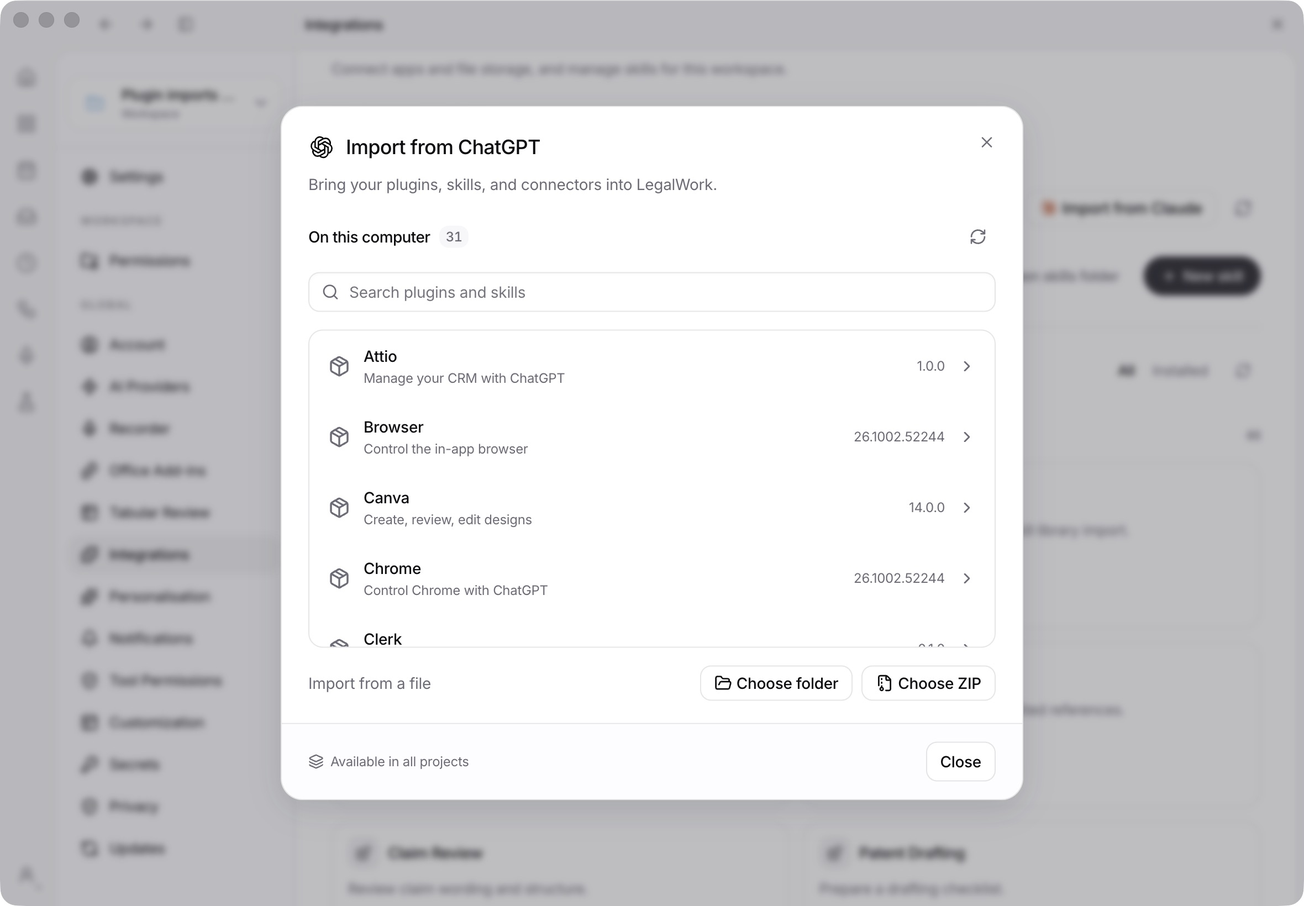
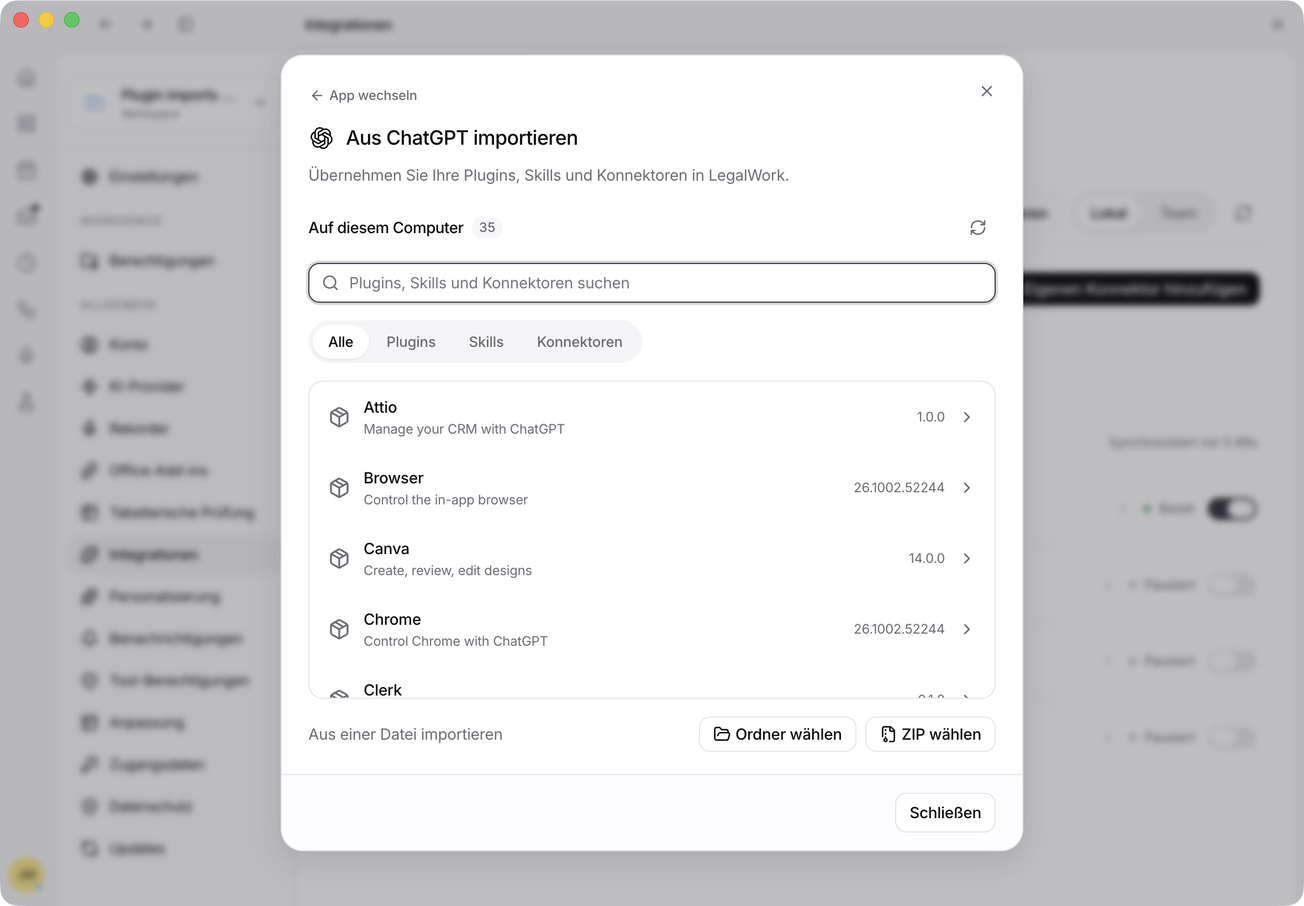
Simplify connector management and remove import scope footer

diff --git a/apps/app/src/react-app/domains/settings/pages/mcp-view.tsx b/apps/app/src/react-app/domains/settings/pages/mcp-view.tsx
@@ -5,6 +5,7 @@ import {
   BookOpen,
   CheckCircle2,
   ChevronDown,
+  ChevronRight,
   CircleAlert,
   Cloud,
   Code2,
@@ -47,7 +48,7 @@ import { pluginImportConnectorName } from "./plugin-import-presentation";
 import { Button } from "@/components/ui/button";
 import { Input } from "@/components/ui/input";
 import { Switch } from "@/components/ui/switch";
-import { Dialog, DialogContent, DialogDescription, DialogHeader, DialogTitle } from "@/components/ui/dialog";
+import { Dialog, DialogContent, DialogDescription, DialogFooter, DialogHeader, DialogTitle } from "@/components/ui/dialog";
 import { ConfirmModal } from "../../../design-system/modals/confirm-modal";
 import { AddMcpModal } from "../../connections/modals/add-mcp-modal";
 import type { LegalworkMcpProbeResult, LegalworkMcpRegisterClientResult } from "../../../../app/lib/legalwork-server";
@@ -1299,138 +1300,86 @@ function McpConfiguredServerRow(props: {
   canShareWithFirm?: boolean;
   onShareWithFirm?: (mcpName: string) => void | Promise<void>;
 }) {
-  const Icon = serviceIcon(props.entry.name);
   return (
-    <div className={`group relative rounded-xl transition-colors ${props.selected ? "bg-dls-hover/40" : "hover:bg-dls-hover/60"}`}>
+    <div className="group relative rounded-xl transition-colors hover:bg-dls-hover/60">
       <div className="flex items-center gap-3 px-1 py-3">
         <button
           type="button"
-          aria-expanded={props.selected}
+          aria-haspopup="dialog"
           className="flex min-w-0 flex-1 items-center gap-3 rounded-lg text-start focus-visible:outline-none focus-visible:ring-2 focus-visible:ring-ring/30"
-          onClick={() => props.onSelect(props.selected ? null : props.entry.name)}
+          onClick={() => props.onSelect(props.entry.name)}
         >
-          {props.directoryEntry ? <LedgerBrandIcon name={props.directoryEntry.name} iconSlug={props.directoryEntry.iconSlug} iconSrc={props.directoryEntry.iconSrc} kind={props.directoryEntry.kind ?? "mcp"} /> :
-          <div className={`flex size-9 shrink-0 items-center justify-center rounded-lg border ${props.status === "connected" ? "border-green-6 bg-green-3" : serviceIconBg(props.entry.name)}`}>
-            <Icon size={16} className={props.status === "connected" ? "text-green-11" : serviceColor(props.entry.name)} />
-          </div>}
+          <McpConfiguredServerIcon {...props} />
           <div className="min-w-0 flex-1">
             <div className="truncate text-[15px] font-medium tracking-[-0.01em] text-dls-text">{props.displayName(props.entry.name)}</div>
             <div className="mt-0.5 truncate text-[13px] text-dls-secondary">{props.directoryEntry?.description ?? t("integrations.custom_connector")}</div>
           </div>
-          <ChevronDown size={14} className={`shrink-0 text-dls-secondary/40 transition-transform ${props.selected ? "rotate-180" : ""}`} />
+          <ChevronRight size={14} className="shrink-0 text-muted-foreground/50" />
         </button>
-        {props.canShareWithFirm && props.onShareWithFirm ? (
-          <Button
-            variant="ghost"
-            size="icon-sm"
-            disabled={props.busy}
-            onClick={(event) => {
-              event.stopPropagation();
-              void props.onShareWithFirm?.(props.entry.name);
-            }}
-            title={t("firm_hub.share_with_firm")}
-            aria-label={`${t("firm_hub.share_with_firm")}: ${props.displayName(props.entry.name)}`}
-          >
-            <Share2 size={13} />
-          </Button>
-        ) : null}
         <div className="flex shrink-0 items-center gap-2">
           <div className={`size-1.5 rounded-full ${statusDot(props.status)}`} />
           <span className="text-xs text-muted-foreground">{friendlyStatus(props.status)}</span>
         </div>
-        {props.onToggleEnabled && props.entry.source !== "config.global" ? <Switch
-          checked={props.entry.config.enabled !== false}
-          disabled={props.busy || props.togglingMcp !== null}
-          aria-label={`${t(props.entry.config.enabled === false ? "mcp.enable_app" : "mcp.disable_app")} ${props.displayName(props.entry.name)}`}
-          onCheckedChange={enabled => {
-            if (props.togglingMcp) return;
-            props.onToggleBusy(props.entry.name);
-            void Promise.resolve(props.onToggleEnabled?.(props.entry.name, enabled)).finally(() => props.onToggleBusy(null));
-          }}
-        /> : null}
+        <McpConnectorToggle {...props} />
       </div>
 
-      {props.selected ? <McpConfiguredServerDetails {...props} /> : null}
+      <McpConfiguredServerDetails {...props} />
     </div>
   );
+}
+
+function McpConfiguredServerIcon(props: Parameters<typeof McpConfiguredServerRow>[0]) {
+  const directory = props.directoryEntry;
+  const Icon = serviceIcon(props.entry.name);
+  return directory ? <LedgerBrandIcon name={directory.name} iconSlug={directory.iconSlug} iconSrc={directory.iconSrc} kind={directory.kind ?? "mcp"} /> :
+    <div className="grid size-9 shrink-0 place-items-center rounded-lg border border-border bg-muted/30"><Icon className="size-4 text-muted-foreground" /></div>;
+}
+
+function McpConnectorToggle(props: Parameters<typeof McpConfiguredServerRow>[0]) {
+  if (!props.onToggleEnabled || props.entry.source === "config.global") return null;
+  return <Switch
+    checked={props.entry.config.enabled !== false}
+    disabled={props.busy || props.togglingMcp !== null}
+    aria-label={`${t(props.entry.config.enabled === false ? "mcp.enable_app" : "mcp.disable_app")} ${props.displayName(props.entry.name)}`}
+    onCheckedChange={enabled => {
+      if (props.togglingMcp) return;
+      props.onToggleBusy(props.entry.name);
+      void Promise.resolve(props.onToggleEnabled?.(props.entry.name, enabled)).finally(() => props.onToggleBusy(null));
+    }}
+  />;
 }
 
 function McpConfiguredServerDetails(props: Parameters<typeof McpConfiguredServerRow>[0]) {
-  return (
-    <div className="animate-in fade-in slide-in-from-top-1 space-y-3 border-t border-dls-border pb-4 pl-5 pr-3 pt-3 duration-200">
-      <div className="flex items-center gap-4 text-xs">
-        <span className="text-dls-secondary">{t("mcp.connection_type")}</span>
-        <span className="text-dls-text">{props.entry.config.type === "remote" ? t("mcp.type_cloud") : t("mcp.type_local")}</span>
-      </div>
-      <div className="flex items-center gap-2">
-        <span className="rounded-md border border-dls-border bg-dls-surface px-2 py-0.5 text-[10px] font-medium text-dls-text">
-          {t("mcp.cap_tools")}
-        </span>
-        {props.entry.config.type === "remote" ? (
-          <span className="rounded-md border border-dls-border bg-dls-surface px-2 py-0.5 text-[10px] font-medium text-dls-text">
-            {t("mcp.cap_signin")}
-          </span>
-        ) : null}
-      </div>
-      {props.errorInfo ? <div className="rounded-lg border border-red-6 bg-red-2 px-3 py-2 text-xs text-red-11">{props.errorInfo}</div> : null}
-      <details className="group">
-        <summary className="flex cursor-pointer list-none items-center gap-1.5 text-[11px] text-dls-secondary transition-colors hover:text-dls-text">
-          <Code2 size={11} />
-          {t("mcp.technical_details")}
-          <ChevronDown size={10} className="transition-transform group-open:rotate-180" />
-        </summary>
-        <div className="mt-1.5 break-all rounded-lg bg-dls-hover px-3 py-2 font-mono text-[11px] text-dls-secondary">
-          {props.entry.config.type === "remote" ? props.entry.config.url : props.entry.config.command?.join(" ")}
+  return <Dialog open={props.selected} onOpenChange={open => { if (!open) props.onSelect(null); }}>
+    <DialogContent className="max-h-[calc(100dvh-3rem)] overflow-y-auto bg-background">
+      <DialogHeader className="pe-6">
+        <div className="mb-1 flex items-center gap-3"><McpConfiguredServerIcon {...props} /><DialogTitle>{props.displayName(props.entry.name)}</DialogTitle></div>
+        <DialogDescription>{props.directoryEntry?.description ?? t("integrations.connector_details")}</DialogDescription>
+      </DialogHeader>
+      <div className="divide-y divide-border">
+        <div className="flex items-center justify-between gap-4 pb-5">
+          <div className="space-y-2"><h3 className="text-sm font-medium">{t("integrations.connector_chat_access")}</h3><p className="flex items-center gap-2 text-sm text-muted-foreground"><span className={`size-1.5 rounded-full ${statusDot(props.status)}`} />{friendlyStatus(props.status)}</p></div>
+          <McpConnectorToggle {...props} />
         </div>
-      </details>
-      <McpConfiguredServerAuthActions {...props} />
-      <div className="flex justify-end gap-2 pt-1">
-        <Button
-          variant="destructive"
-          size="sm"
-          onClick={(event) => {
-            event.stopPropagation();
-            props.onRemove(props.entry.name);
-          }}
-        >
-          {t("mcp.remove_app")}
-        </Button>
+        {props.supportsOauth(props.entry) ? <div className="flex items-center justify-between gap-4 py-5">
+          <div className="min-w-0 space-y-1"><h3 className="text-sm font-medium">{t("integrations.connector_account_access")}</h3><p className="text-xs leading-5 text-muted-foreground">{t("integrations.connector_account_hint")}</p></div>
+          {props.status === "connected" ? <Button variant="outline" size="sm" disabled={props.busy || props.logoutBusy} onClick={() => props.onRequestLogout(props.entry.name)}>{t(props.logoutBusy && props.logoutTarget === props.entry.name ? "mcp.logout_working" : "mcp.logout_action")}</Button> : <Button size="sm" disabled={props.busy} onClick={() => props.onAuthorize(props.entry)}>{t("mcp.login_action")}</Button>}
+        </div> : null}
+        <details className="group pt-5">
+          <summary className="flex cursor-pointer list-none items-center gap-2 text-xs text-muted-foreground hover:text-foreground"><Code2 className="size-3.5" />{t("mcp.technical_details")}<ChevronDown className="ms-auto size-3.5 transition-transform group-open:rotate-180" /></summary>
+          <div className="mt-3 space-y-2 rounded-lg bg-muted/40 p-3 text-xs text-muted-foreground"><p>{t(props.entry.config.type === "remote" ? "integrations.connector_remote" : "integrations.connector_local")}</p><p className="break-all font-mono">{props.entry.config.type === "remote" ? props.entry.config.url : props.entry.config.command?.join(" ")}</p></div>
+        </details>
       </div>
-    </div>
-  );
-}
-
-function McpConfiguredServerAuthActions(props: Parameters<typeof McpConfiguredServerRow>[0]) {
-  if (!props.supportsOauth(props.entry)) return null;
-  if (props.status !== "connected") {
-    return (
-      <>
-        <div className="flex items-center justify-between gap-3 pt-1">
-          <div className="text-xs text-dls-secondary">{t("mcp.logout_label")}</div>
-          <Button size="sm" disabled={props.busy} onClick={() => props.onAuthorize(props.entry)}>
-            {t("mcp.login_action")}
-          </Button>
+      {props.errorInfo ? <p role="alert" className="rounded-lg bg-destructive/5 p-3 text-xs leading-5 text-destructive">{props.errorInfo}</p> : null}
+      <DialogFooter className="flex-row items-center justify-between gap-3 sm:justify-between">
+        <Button variant="ghost" size="sm" className="text-destructive hover:bg-destructive/5 hover:text-destructive" disabled={props.busy} onClick={() => props.onRemove(props.entry.name)}>{t("mcp.remove_app")}</Button>
+        <div className="flex items-center gap-2">
+          {props.canShareWithFirm && props.onShareWithFirm ? <Button variant="outline" size="sm" disabled={props.busy} onClick={() => void props.onShareWithFirm?.(props.entry.name)}><Share2 className="size-4" />{t("firm_hub.share_with_firm")}</Button> : null}
+          <Button size="sm" onClick={() => props.onSelect(null)}>{t("common.close")}</Button>
         </div>
-        <div className="text-[11px] text-dls-secondary/70">{t("mcp.login_hint")}</div>
-      </>
-    );
-  }
-  return (
-    <>
-      <div className="flex items-center justify-between gap-3 pt-1">
-        <div className="text-xs text-dls-secondary">{t("mcp.logout_label")}</div>
-        <Button
-          variant="destructive"
-          size="sm"
-          disabled={props.busy || props.logoutBusy}
-          onClick={() => props.onRequestLogout(props.entry.name)}
-        >
-          {props.logoutBusy && props.logoutTarget === props.entry.name ? t("mcp.logout_working") : t("mcp.logout_action")}
-        </Button>
-      </div>
-      <div className="text-[11px] text-dls-secondary/70">{t("mcp.logout_hint")}</div>
-    </>
-  );
+      </DialogFooter>
+    </DialogContent>
+  </Dialog>;
 }
 
 function McpAdvancedConfigSection(props: {

diff --git a/apps/app/src/react-app/domains/settings/pages/plugin-import-dialog.tsx b/apps/app/src/react-app/domains/settings/pages/plugin-import-dialog.tsx
@@ -1,6 +1,6 @@
 import { useEffect, useRef, useState } from "react";
 import JSZip from "jszip";
-import { ArrowLeft, Blocks, Bot, ChevronRight, FileArchive, FolderOpen, Layers, Loader2, Package, Plug, RefreshCw, Search, Terminal, TriangleAlert } from "lucide-react";
+import { ArrowLeft, Blocks, Bot, ChevronRight, FileArchive, FolderOpen, Loader2, Package, Plug, RefreshCw, Search, Terminal, TriangleAlert } from "lucide-react";
 import type { PluginImportCandidate, PluginImportPreview, PluginImportProvider, PluginImportRequest, PluginImportSource } from "@legalwork/types/plugin-import";
 import { Button } from "@/components/ui/button";
 import { Input } from "@/components/ui/input";
@@ -46,6 +46,8 @@ export function PluginImportDialog(props: { store: PluginImportStore; onClose: (
   const mounted = useRef(true);
   const zipInput = useRef<HTMLInputElement>(null);
   const folderInput = useRef<HTMLInputElement>(null);
+  const searchInput = useRef<HTMLInputElement>(null);
+  const providerButton = useRef<HTMLButtonElement>(null);
   const selected = previews.find(item => item.root === selectedRoot);
   const groups = groupPluginImportCandidates(candidates);
   const search = query.trim().toLocaleLowerCase();
@@ -74,6 +76,8 @@ export function PluginImportDialog(props: { store: PluginImportStore; onClose: (
     setError(null);
     setQuery("");
     setFilter("all");
+    if (provider) searchInput.current?.focus();
+    else providerButton.current?.focus();
   }, [provider]);
 
   const preview = async (nextSource: PluginImportSource, label: string) => {
@@ -155,7 +159,7 @@ export function PluginImportDialog(props: { store: PluginImportStore; onClose: (
       {provider === null ? <>
         <DialogHeader className="pe-6"><DialogTitle>{t("integrations.import_title")}</DialogTitle><DialogDescription>{t("integrations.import_choose_provider")}</DialogDescription></DialogHeader>
         <div className="space-y-3">
-          <Button autoFocus variant="outline" className="h-auto w-full justify-between gap-4 px-4 py-4" onClick={() => setProvider("chatgpt")}><span className="flex items-center gap-3"><ChatGptLogo className="size-6 shrink-0" />{t("extensions.import_chatgpt")}</span><ChevronRight className="size-4 text-muted-foreground" /></Button>
+          <Button ref={providerButton} autoFocus variant="outline" className="h-auto w-full justify-between gap-4 px-4 py-4" onClick={() => setProvider("chatgpt")}><span className="flex items-center gap-3"><ChatGptLogo className="size-6 shrink-0" />{t("extensions.import_chatgpt")}</span><ChevronRight className="size-4 text-muted-foreground" /></Button>
           <Button variant="outline" className="h-auto w-full justify-between gap-4 px-4 py-4" onClick={() => setProvider("claude")}><span className="flex items-center gap-3"><img src={claudeLogo} alt="" aria-hidden="true" width={24} height={24} className="size-6 shrink-0" />{t("extensions.import_claude")}</span><ChevronRight className="size-4 text-muted-foreground" /></Button>
         </div>
       </> : <>
@@ -176,7 +180,7 @@ export function PluginImportDialog(props: { store: PluginImportStore; onClose: (
           </div>
           <div className="relative">
             <Search className="pointer-events-none absolute start-3 top-1/2 size-4 -translate-y-1/2 text-muted-foreground" />
-            <Input autoFocus className="ps-9" aria-label={t("extensions.import_search")} placeholder={t("extensions.import_search")} value={query} onChange={event => setQuery(event.target.value)} />
+            <Input ref={searchInput} autoFocus className="ps-9" aria-label={t("extensions.import_search")} placeholder={t("extensions.import_search")} value={query} onChange={event => setQuery(event.target.value)} />
           </div>
           <HubTabs<ImportFilter>
             label={t("extensions.import_filter")}
@@ -226,8 +230,7 @@ export function PluginImportDialog(props: { store: PluginImportStore; onClose: (
 
       <input ref={zipInput} type="file" accept=".zip,application/zip" className="hidden" aria-label={t("extensions.import_choose_zip")} onChange={event => { void upload(event.target.files, false); event.target.value = ""; }} />
       <input ref={element => { folderInput.current = element; element?.setAttribute("webkitdirectory", ""); }} type="file" multiple className="hidden" aria-label={t("extensions.import_choose_folder")} onChange={event => { void upload(event.target.files, true); event.target.value = ""; }} />
-      <DialogFooter className="mx-0 mb-0 shrink-0 items-center gap-3 px-6 py-4 sm:justify-between">
-        <span className="flex items-center gap-1.5 text-xs text-muted-foreground"><Layers className="size-3.5" />{t("extensions.import_all_projects")}</span>
+      <DialogFooter className="mx-0 mb-0 shrink-0 items-center gap-3 px-6 py-4 sm:justify-end">
         {step === "choose" ? <Button variant="outline" onClick={props.onClose}>{t("common.close")}</Button> : <div className="flex items-center gap-2"><Button variant="ghost" disabled={busy || installing} onClick={() => { setStep("choose"); setError(null); }}><ArrowLeft />{t("common.back")}</Button><Button disabled={busy || installing || !selected || !source} aria-busy={installing} onClick={() => void install()}>{installing ? <Loader2 className="animate-spin motion-reduce:animate-none" /> : null}{t(installing ? "extensions.import_installing" : "extensions.import_install")}</Button></div>}
       </DialogFooter>
       </>}

diff --git a/apps/app/src/i18n/locales/de.ts b/apps/app/src/i18n/locales/de.ts
@@ -20,6 +20,12 @@ const de = {
   "integrations.search_skills": "Skills durchsuchen…",
   "integrations.all_skills": "Alle Skills",
   "integrations.description": "Verbinden Sie Ihre Tools, nutzen Sie eigene Skills und greifen Sie auf Ihre Dokumente zu.",
+  "integrations.connector_details": "Verwalten Sie diese Verbindung und ihre Nutzung in Ihren Chats.",
+  "integrations.connector_chat_access": "In Chats verwenden",
+  "integrations.connector_account_access": "Kontozugriff",
+  "integrations.connector_account_hint": "Gespeicherte Anmeldung für diesen Konnektor verwalten.",
+  "integrations.connector_remote": "Remote-Konnektor",
+  "integrations.connector_local": "Lokaler Konnektor",
   "integrations.import_title": "Vorhandenes Setup importieren",
   "integrations.import_action": "Importieren",
   "integrations.import_choose_provider": "Wählen Sie aus, von welcher App Sie Ihre Plugins, Skills und Konnektoren übernehmen möchten.",

diff --git a/apps/app/src/i18n/locales/en.ts b/apps/app/src/i18n/locales/en.ts
@@ -10,6 +10,12 @@ export default {
   "integrations.search_skills": "Search skills…",
   "integrations.all_skills": "All skills",
   "integrations.description": "Connect your tools, teach LegalWork your workflows, and bring your files into reach.",
+  "integrations.connector_details": "Manage this connection and its access in your chats.",
+  "integrations.connector_chat_access": "Use in chats",
+  "integrations.connector_account_access": "Account access",
+  "integrations.connector_account_hint": "Manage saved sign-in for this connector.",
+  "integrations.connector_remote": "Remote connector",
+  "integrations.connector_local": "Local connector",
   "integrations.import_title": "Import your existing setup",
   "integrations.import_action": "Import",
   "integrations.import_choose_provider": "Choose where to import your plugins, skills and connectors from.",

diff --git a/docs/plugin-imports.md b/docs/plugin-imports.md
@@ -8,7 +8,7 @@ Imports are automatically available in all projects, matching the desktop Skills
 
 The Integrations page keeps **Connectors / Skills / Data storage** separate, with a shared header, category navigation, search and readable lists. Local/Team remains a library scope, not a project-scoped plugin setting. A single Import action in the top toolbar opens a ChatGPT/Claude chooser with both logos. The Skills page labels its separate folder/ZIP action Import skills. The former import footer is removed.
 
-- **Connectors:** saved connections and active built-in tools appear first; ready items precede paused/offline items. Paused connectors remain available to enable or inspect. Browse directory opens a separate, searchable catalog with All / Services / LegalWork tools filters. Closing a detail returns to the same directory search. Technical setup stays in details. Own connectors, sign-in, removal, sharing, policy restrictions and read-only global configuration retain the existing behavior.
+- **Connectors:** saved connections and active built-in tools appear first; ready items precede paused/offline items. Paused connectors remain available to enable or inspect. Browse directory opens a separate, searchable catalog with All / Services / LegalWork tools filters. Closing a detail returns to the same directory search. Selecting a connector opens a compact management modal with chat access, account actions and optional technical details. The list no longer expands inline. Own connectors, sign-in, removal, sharing, policy restrictions and read-only global configuration retain the existing behavior.
 - **Skills:** the complete installed library uses compact rows with a management menu for editing, exporting, sharing and removal. All skills / Your skills / Included / Imported packages filters separate skill use from package management. Search includes readable imported names, descriptions and built-in commands. Ordinary skills no longer inherit the eight-item workflow page limit; workflows retain pagination. Package loading and failures have explicit states.
 - **Data storage:** the library shows connected accounts and search rather than all storage types. Add storage opens a searchable provider picker, then the existing configuration form. Change provider returns to the picker before saving. Empty/search/error states distinguish an empty library from missing matches. Team connections and existing access controls remain intact.
 
@@ -45,7 +45,7 @@ The desktop supplies the actual OS home directory for discovery, including in de
 
 ## Updates and limits
 
-Reimporting the same provider/package name replaces the installed package in the selected scope; the preview announces this. Complete package directories are replaced so deleted resources and connectors are pruned. On installation failure, the previous package directories, import record and package-owned connectors are restored. Uninstall removes the retained bundle, active components and registered MCP entries. The import footer and removal dialogs state that packages affect all projects. Display names are retained in the installed library, and imported skill cards show readable component names; canonical package and execution identifiers remain unchanged for updates and removal. A successful import opens Skills and confirms the imported package.
+Reimporting the same provider/package name replaces the installed package in the selected scope; the preview announces this. Complete package directories are replaced so deleted resources and connectors are pruned. On installation failure, the previous package directories, import record and package-owned connectors are restored. Uninstall removes the retained bundle, active components and registered MCP entries. Removal dialogs state that packages affect all projects. Display names are retained in the installed library, and imported skill cards show readable component names; canonical package and execution identifiers remain unchanged for updates and removal. A successful import opens Skills and confirms the imported package.
 
 Installation requires the digest from the reviewed preview. Source, scope or target changes require another preview. Package names are hashed into namespaces to avoid overwriting other packages. Existing unowned destination files cause a conflict. Folder/ZIP inputs reject traversal, linked files/directories, duplicate archive paths (including case collisions), encrypted/multi-volume/ZIP64 archives and excessive sizes. Limits: 64 MB of source/expanded ZIP data, 5,000 source files, 128 MB/10,000 installed resource files, folder nesting up to 24 levels.
 
@@ -80,6 +80,8 @@ Native Electron verification found existing installations for both providers, fi
 
 ![Single import action and connected-first connector library in Electron](images/integrations-connectors-library.png)
 
+![Compact connector management dialog in Electron](images/integrations-connector-details.png)
+
 ![ChatGPT and Claude provider chooser in Electron](images/integrations-import-chooser.png)
 
 ![Skills library in Electron](images/integrations-skills-library.png)
@@ -92,4 +94,6 @@ Native Electron verification found existing installations for both providers, fi
 
 Native Electron checks cover tab navigation, connector search and clear, directory filters/search/detail return, custom connector setup, skills search by a built-in command and imported name, the management menu and editor, package filtering, storage provider search, configuration and Change provider. These checks did not add or remove a real connection. The application suite passed 940 tests; the final focused library/setup/import suite passed 20 tests. App type checking, production build and the English/German translation check passed. Regression coverage includes libraries with more than eight ordinary skills, built-in command search, configured connector ordering, read-only global connectors, separate provider discovery, and local/team storage membership.
 
-Import chooser follow-up: the single top-toolbar action and branded provider chooser were checked in Electron, including entry into ChatGPT discovery and component review. `pnpm --filter @legalwork/app exec bun test tests/plugin-import-buttons.test.tsx tests/plugin-import-presentation.test.ts tests/integration-libraries.test.tsx tests/mcp-library.test.tsx` passed 15 tests. App type checking, production build and the locale check passed (5,723 keys per language).
+The single top-toolbar action and branded provider chooser were checked in Electron, including ChatGPT and Claude discovery, component review, Change app and keyboard focus returning to the chooser/search. The import footer's project-availability label is removed. The compact connector management dialog was checked with the technical disclosure and both sign-out/removal confirmations; cancelling each returns to the dialog without changing the connection.
+
+`pnpm --filter @legalwork/app exec bun test tests/mcp-library.test.tsx tests/mcp-logout-truthfulness.test.ts tests/plugin-import-buttons.test.tsx tests/integration-libraries.test.tsx tests/add-mcp-modal.test.tsx` passed 30 tests. App type checking, production build and the locale check passed (5,729 keys per language).
